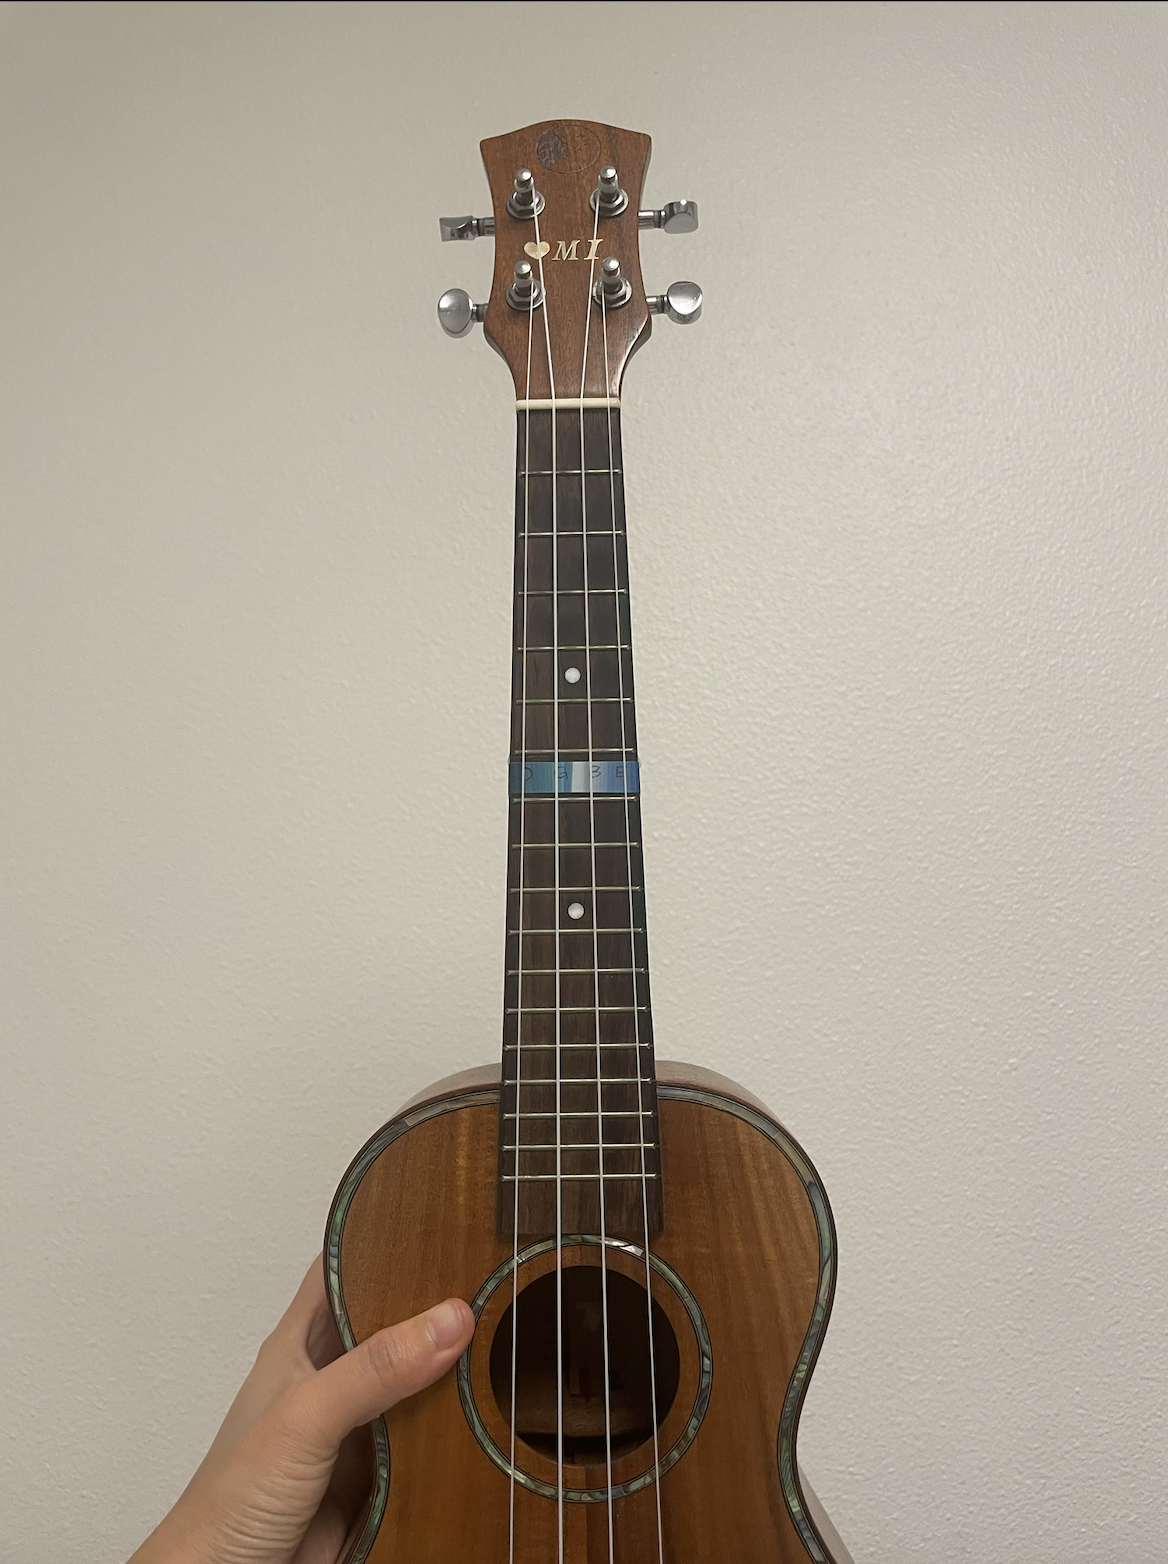
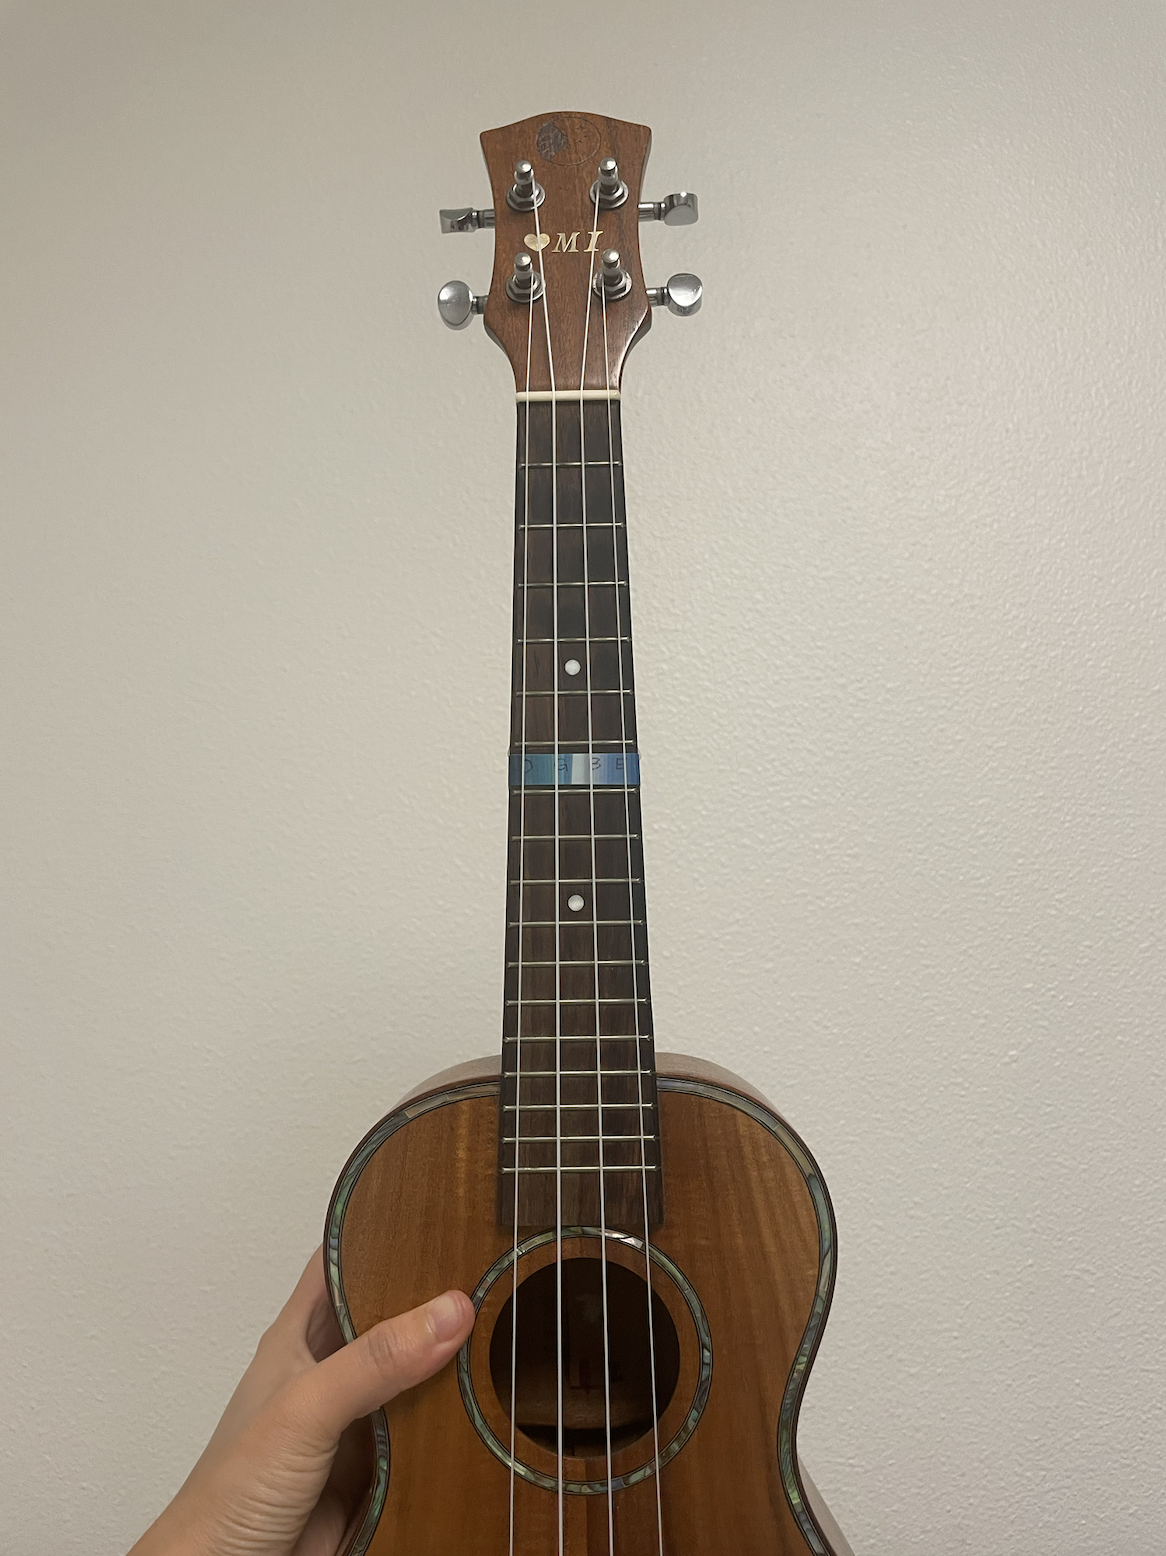
uke2

diff --git a/rr1/index.html b/rr1/index.html
@@ -71,7 +71,7 @@ Design</i></a> Principle 1.5, which states:<br>
 
 <p align="justify"><b>Guerrilla design: Ukulele fret stress strip</b></p>
 <p align="justify">I wanted to design something that's like an augmentation of the fret dots. I have some anti-stress texture strips that I stick onto my phone and laptop, so I decided to write down the notes on the seventh fret of all four strings on the strip and use that as a marker. This is a useful feature as it helps with the next step in my uke journey-- fingerstyle playing. However, I realized that I was also taking away a little function, because I will no longer be able to run my finger on the strip like how it is supposed to be used. Aesthetically, I would say this is worth it; I have now added a bit of my favorite color onto my favorite instrument. Just like the fret dots, the markings are hard to notice unless you are playing the ukulele, and from afar it just looks like a decoration. Functionally, it would be easier to read if I had dark pen marks on a lighter material, but just because it is more pleasing to look at, I believe that I will use this strip more often -- and hopefully it will teach me the notes on the fret soon. </p>
-<img style="width:500px;height:600px;" src="uke1.png" alt="The fretboard of my ukulele, with a custom 7th fret marker">
+<img style="width:500px;height:600px;" src="uke2.png" alt="The fretboard of my ukulele, with a custom 7th fret marker">
 <p align="justify">&nbsp;</p>
 </td>
 </tr>
